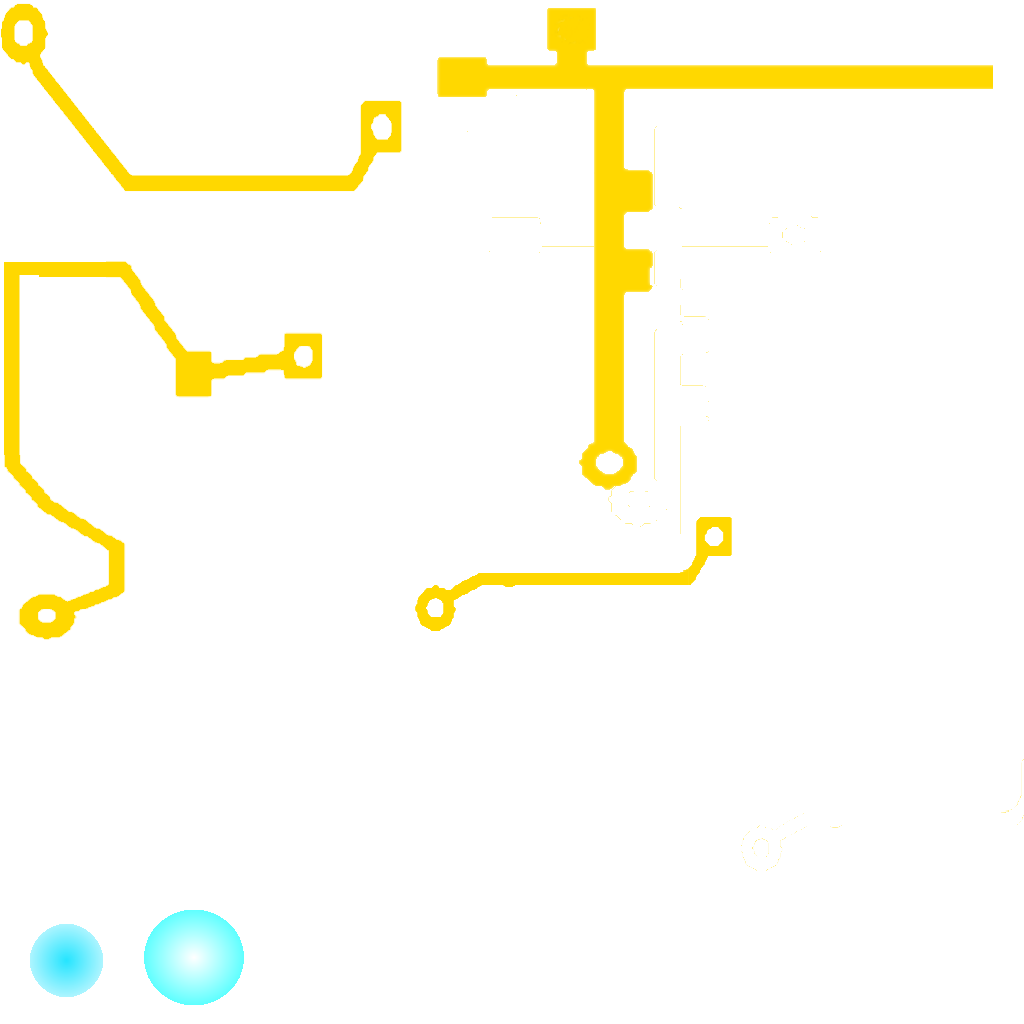
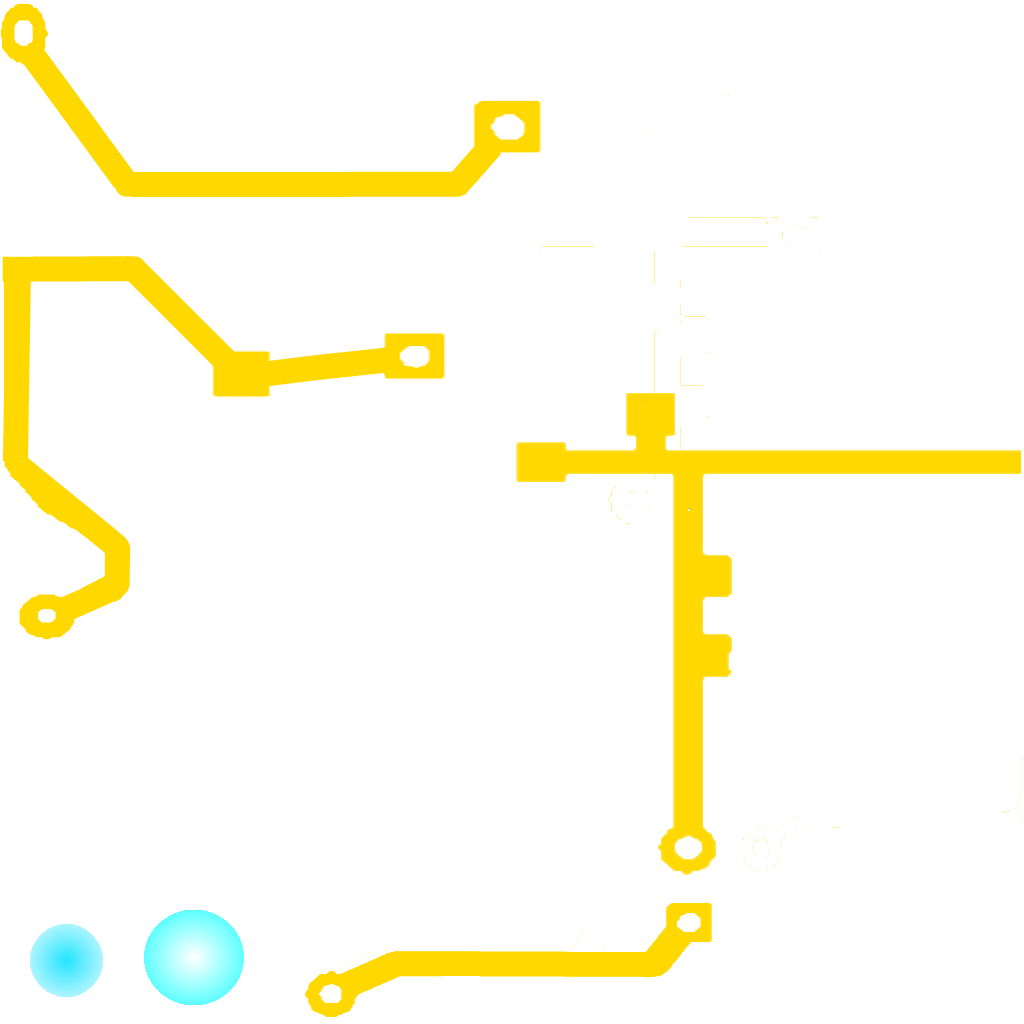
Corrected a few issues with the original circuit game. Changed length of some circuit segments and fixed problem w/ speed.

Changed region(s): [[0.0312, 0.0, 1.0, 1.0], [0.0, 0.25, 0.4375, 0.625]]

diff --git a/vergegl/src/com/dbz/verge/microgames/CircuitMicroGame.java b/vergegl/src/com/dbz/verge/microgames/CircuitMicroGame.java
@@ -37,6 +37,8 @@ public class CircuitMicroGame extends MicroGame {
     public static TextureRegion circuitSparkState1Region;
     public static TextureRegion circuitSparkState2Region;
     public static Animation circuitSparkAnim;
+    
+    private boolean isFirstRun = true;
 	
 	// Used to determine win Condition (Number of direction changes per level)
 	private int directionPointsInLevel[] = {12, 16, 19};
@@ -44,8 +46,8 @@ public class CircuitMicroGame extends MicroGame {
 	//Circuit Arrays
 	
 	// Bounding rectangle for each circuit piece
-	private Rectangle[] circuitPieces = {new Rectangle(190, 800-94, 405, 195), new Rectangle(240, 800-478, 328, 383), 
-			new Rectangle(508, 800-612, 325, 122), new Rectangle(1022, 800-287, 557, 480)};
+	private Rectangle[] circuitPieces = {new Rectangle(190+64, 800-94, 405+128, 195), new Rectangle(240+64, 800-478, 328+128, 383), 
+			new Rectangle(508+64+64, 800-612, 325+128, 122), new Rectangle(1022+64+64, 800-287-64, 557, 480)};
 
 	// Corresponding textures for circuit piece
 	private TextureRegion[] circuitTextures = new TextureRegion[4]; //temp? put in assets?
@@ -55,13 +57,13 @@ public class CircuitMicroGame extends MicroGame {
 	//Direction points for each change in direction in the circuit.
 	private Vector2[] directionPoints = 
 			// Circuit one
-		{new Vector2(24-16, 800-32), new Vector2(128-16, 800-178), new Vector2(350-16, 800-181), new Vector2(382-16, 800-127), 
+		{new Vector2(24-16, 800-32), new Vector2(128-16, 800-178), new Vector2(350-16+128-16, 800-181), new Vector2(382-16+128-8, 800-127), 
 			// Circuit two
-			new Vector2(382,800-382), new Vector2(274,800-397), new Vector2(204,800-296), new Vector2(91,800-296), new Vector2(94,800-491),new Vector2(195,800-573),new Vector2(195,800-612), new Vector2(127,800-643),
+			new Vector2(382+128-8,800-382), new Vector2(274+32+8,800-397), new Vector2(204,800-296), new Vector2(91,800-296), new Vector2(94,800-491),new Vector2(195,800-573),new Vector2(195,800-612), new Vector2(127,800-643),
 			// Circuit three
-			new Vector2(362,800-640), new Vector2(403,800-612), new Vector2(611,800-611), new Vector2(640,800-568),
+			new Vector2(362+64+8,800-640), new Vector2(403+64+32,800-612), new Vector2(611+64+96-8,800-611), new Vector2(640+64+96-8,800-568),
 			// Circuit four
-			new Vector2(894+32,800-511) ,new Vector2(895+32,800-126), new Vector2(1272,800-126)};
+			new Vector2(894+32+64+8+64,800-511-64+16) ,new Vector2(895+32+64+8+64,800-126-32-16), new Vector2(1272+64+8+64,800-126-64-16)};
 
 	// 1-1 Correspondence to direction points - used to check if DirectionPoint starts a gap.
 	private boolean doesDirectionPointStartCircuitGap[] = 
@@ -74,9 +76,9 @@ public class CircuitMicroGame extends MicroGame {
 
 	// End nodes for touch points
 	private Rectangle[] circuitNodes = 
-		{new Rectangle(382-16, 800-127, 190,190),  new Rectangle(382,800-382, 190,190),    //gap 1
-			new Rectangle(127,800-643, 190,190), new Rectangle(362, 800-640, 190,190),     //gap 2
-			new Rectangle(640,800-568, 190,190), new Rectangle(894+32,800-511, 190,190)};  //gap 3
+		{new Rectangle(382-16+128-8, 800-127, 190,190),  new Rectangle(382+128-8,800-382, 190,190),    //gap 1
+			new Rectangle(127,800-643, 190,190), new Rectangle(362+64,800-640, 190,190),     //gap 2
+			new Rectangle(640+64+96-8,800-568, 190,190), new Rectangle(894+32+64+8+64,800-511-64+16, 190,190)};  //gap 3
 
 	// 1-1 Correspondence to circuit nodes - maintains list of whether or not its touched
 	private boolean[] isCircuitNodeTouched = {false, false, false, false, false, false}; 
@@ -100,12 +102,8 @@ public class CircuitMicroGame extends MicroGame {
 	// --- Constructor ---
 	// -------------------
 
-	public CircuitMicroGame() {
-		//totalMicroGameTime = 10; //note, time based loss/win doesn't apply to this game.
-		speedScalar = new float[] { 1.0f, 1.1f, 1.2f }; //TODO adjust sparkSpeed to work w/ Microgame.speedScalar
-		// Calculate rate of change for first two vectors
-		calculateRateofChange(); //TODO bug, spark starts slow because level isn't updated until after constructor call. In general, needs to be fixed.
-								//IDEA, add level as a param to microgame constructor, then call super.updateLevel so we don't have to rework a bunch of code.
+	public CircuitMicroGame() { 
+		speedScalar = new float[] { 1.0f, 1.2f, 1.3f };
 	}
 	
 	@Override
@@ -117,11 +115,13 @@ public class CircuitMicroGame extends MicroGame {
         circuitSparkState1Region = new TextureRegion(circuit, 0,896,128,128);
         circuitSparkState2Region = new TextureRegion(circuit, 128,896,128,128);
         circuitSparkAnim = new Animation(0.2f, circuitSparkState1Region, circuitSparkState2Region);
+        
         //Circuit parts TODO draw lines based on vectors instead of images
-        circuitLine1 = new TextureRegion(circuit, 0, 0, 405, 195);
-        circuitLine2 = new TextureRegion(circuit, 0, 256, 328, 383);
-        circuitLine3 = new TextureRegion(circuit, 416, 512, 325, 122);
-        circuitLine4 = new TextureRegion(circuit, 436,10, 557, 480);
+        circuitLine1 = new TextureRegion(circuit, 0, 0, 544, 195);
+        circuitLine2 = new TextureRegion(circuit, 0, 256, 448, 383);
+        circuitLine3 = new TextureRegion(circuit, 304, 896, 456, 122);
+        circuitLine4 = new TextureRegion(circuit, 512, 384, 512, 512);
+        
     	circuitTextures[0] = circuitLine1;
     	circuitTextures[1] = circuitLine2;
     	circuitTextures[2] = circuitLine3;
@@ -148,7 +148,12 @@ public class CircuitMicroGame extends MicroGame {
 
 	@Override
 	public void updateRunning(float deltaTime) {
-
+		
+		if(isFirstRun){
+			calculateRateofChange(); // Calculate rate of change for first two vectors (used to be in constructor)
+			isFirstRun = false;
+		}
+		
 		if(doesDirectionPointStartCircuitGap[directionIndex]) // if between a gap
 			if(!circuitCompleted){				// if circuit not complete, game lost
 				AssetsManager.playSound(AssetsManager.hitSound);
@@ -238,7 +243,7 @@ public class CircuitMicroGame extends MicroGame {
 	 */
 	private void calculateRateofChange(){
 		distance = directionPoints[directionIndex].dist(directionPoints[directionIndex+1]);
-		rateOfChange = ((sparkSpeed *= speedScalar[speed-1])/distance);
+		rateOfChange = ((sparkSpeed * speedScalar[speed-1])/distance);
 	}
 
 	// -----------------------------
@@ -249,6 +254,7 @@ public class CircuitMicroGame extends MicroGame {
 	public void reset() {
 		super.reset();
 		//reset class members
+		isFirstRun = true;
 		spark.resetSpark();
 		Arrays.fill(isCircuitNodeTouched, false);
 		sparkSpeed = 10; 	 
